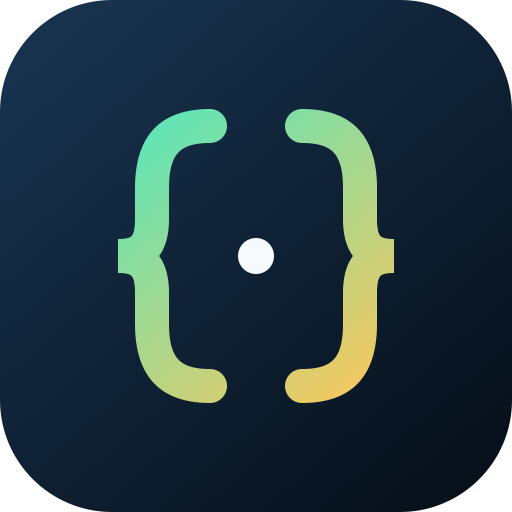
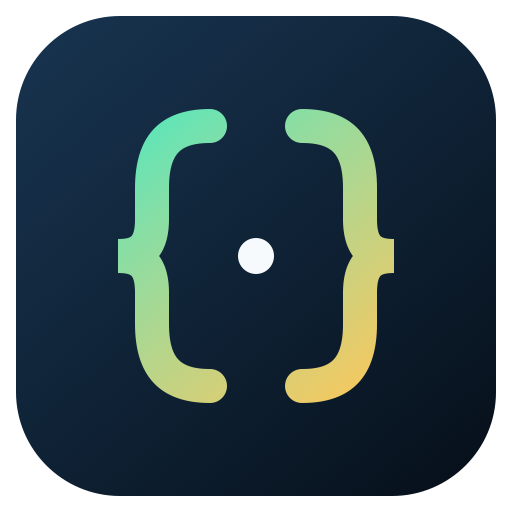
Prepare Raycast extension for submission

Changed region(s): [[0.0, 0.0, 1.0, 1.0]]

diff --git a/README.md b/README.md
@@ -1,5 +1,5 @@
 <p align="center">
-  <img src="media/extension-icon.png" width="96" alt="JSON Toolkit icon">
+  <img src="media/extension-icon.svg" width="96" alt="JSON Toolkit icon">
 </p>
 
 <h1 align="center">JSON Toolkit for Raycast</h1>